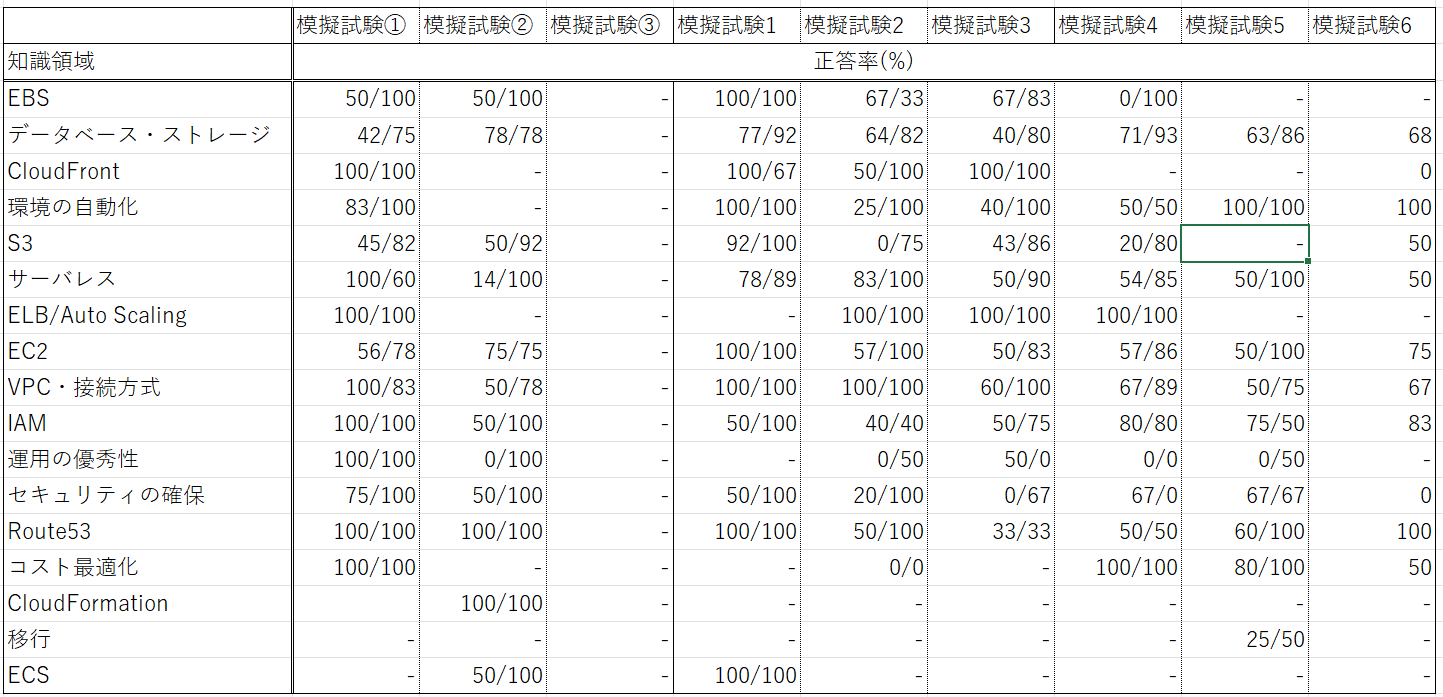
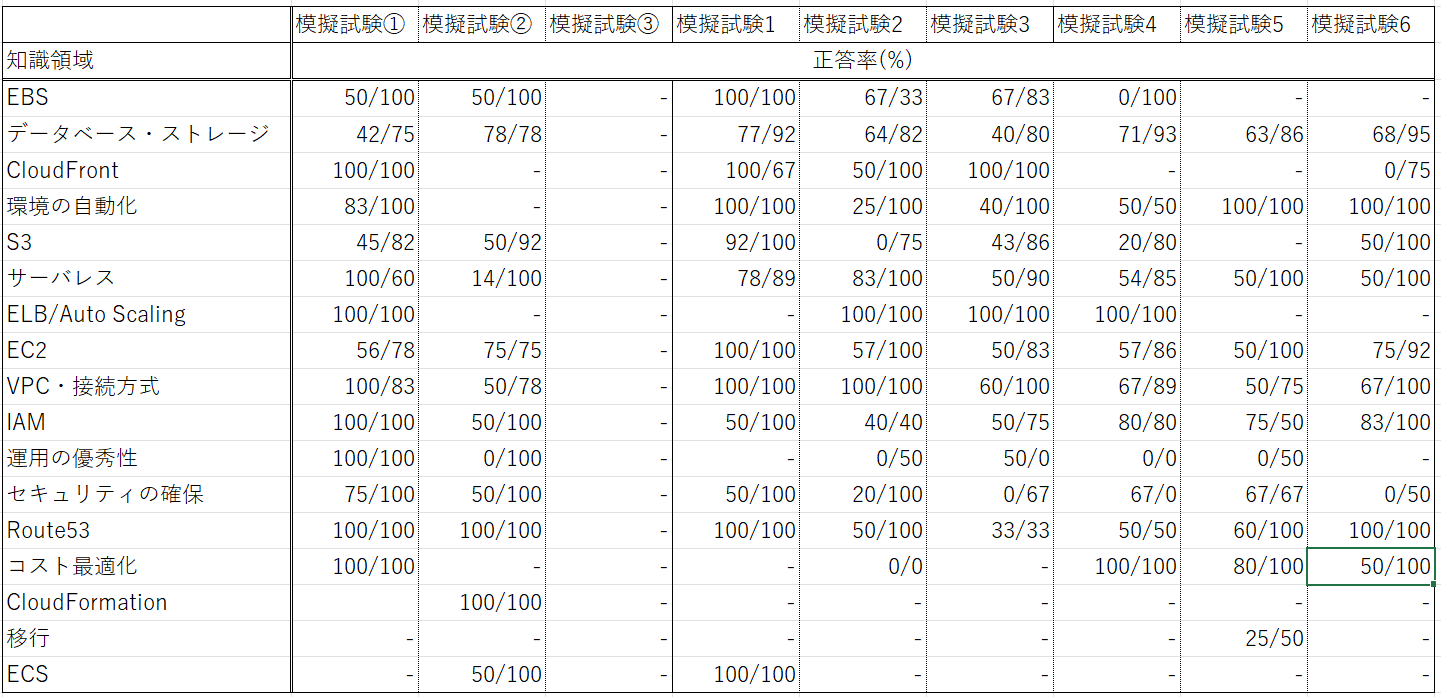
模擬試験6結果2回目

diff --git a/模擬試験結果.md b/模擬試験結果.md
@@ -15,7 +15,7 @@
 | 3 | 32/65 | 53/65 | 49% | 81% |
 | 4 | 38/65 | 52/65 | 58% | 80% |
 | 5 | 39/65 | 55/65 | 60% | 84% |
-| 6 | 41/65 |  | 63% |  |
+| 6 | 41/65 | 61/65 | 63% | 93% |
 
 ![模擬試験結果](/png/模擬試験結果.png)
 
